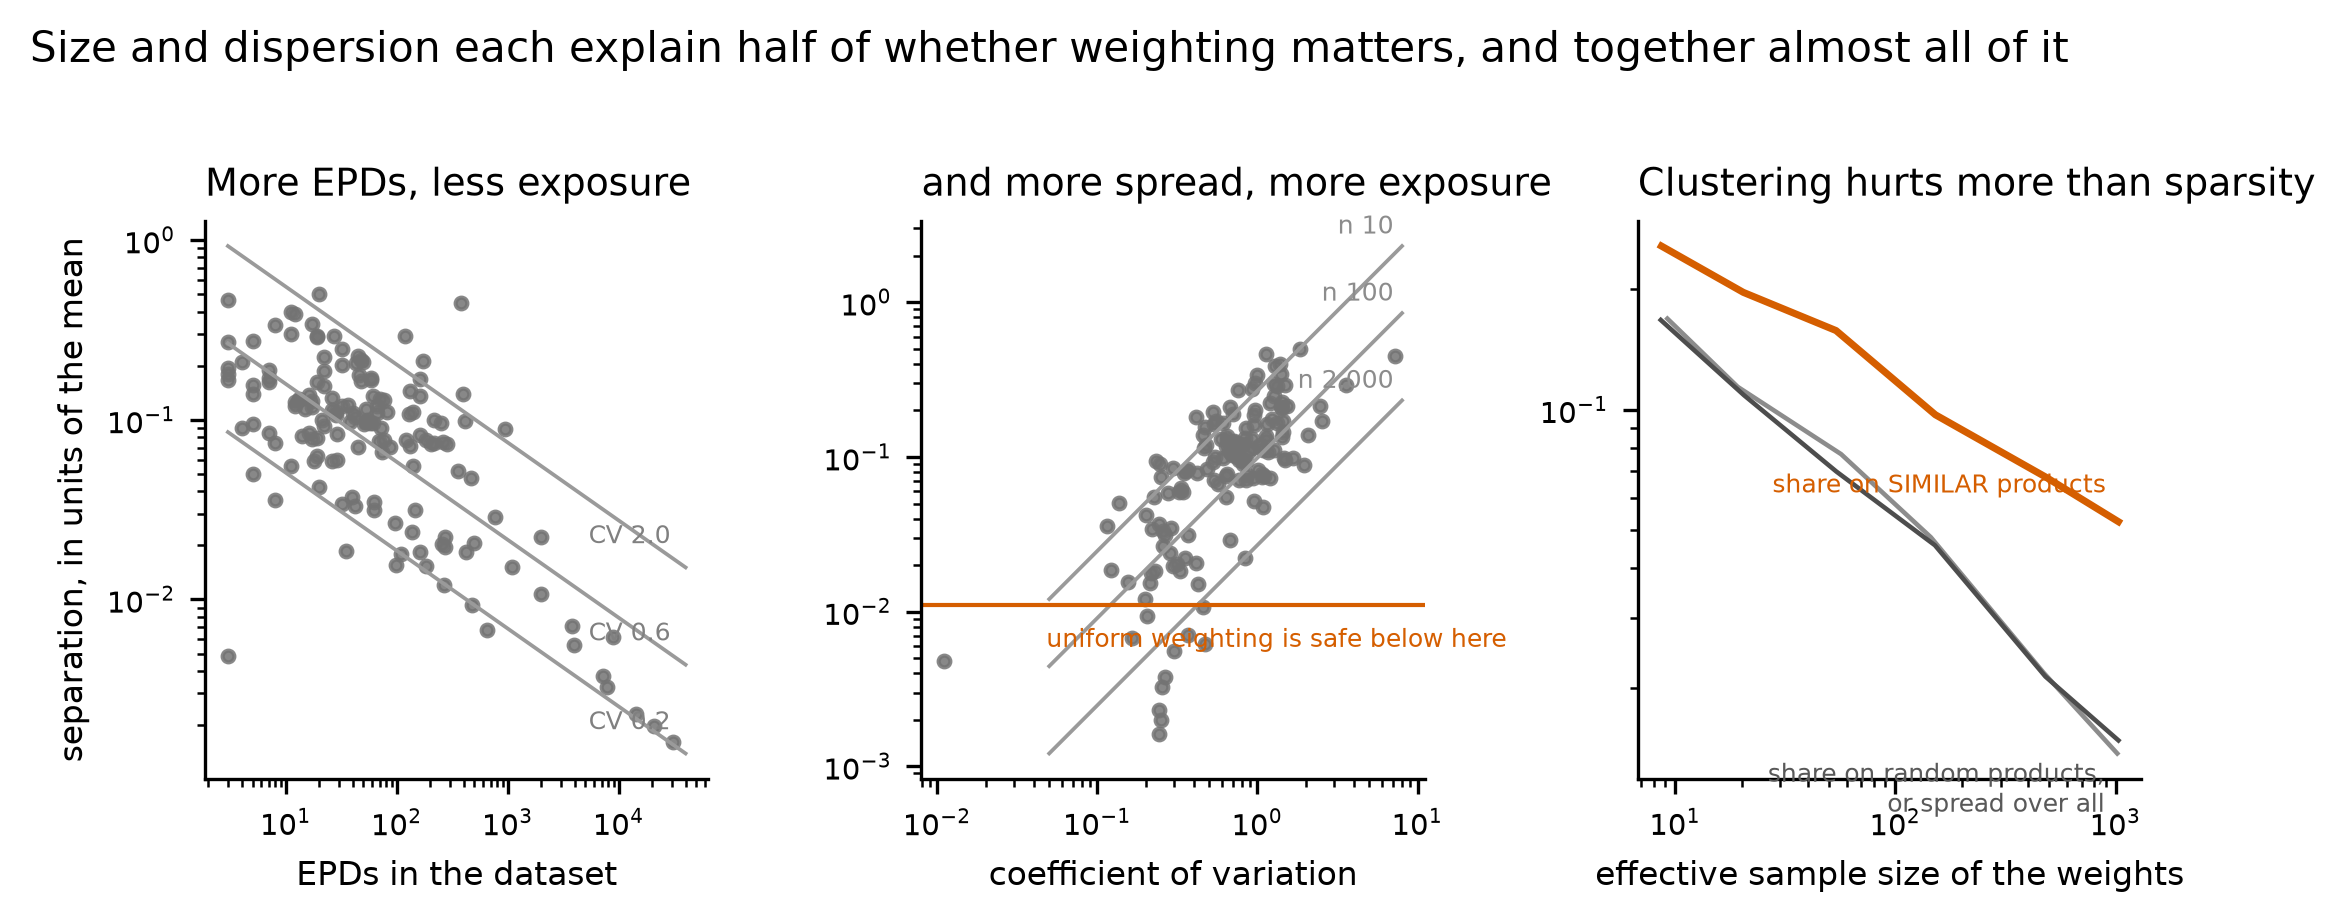
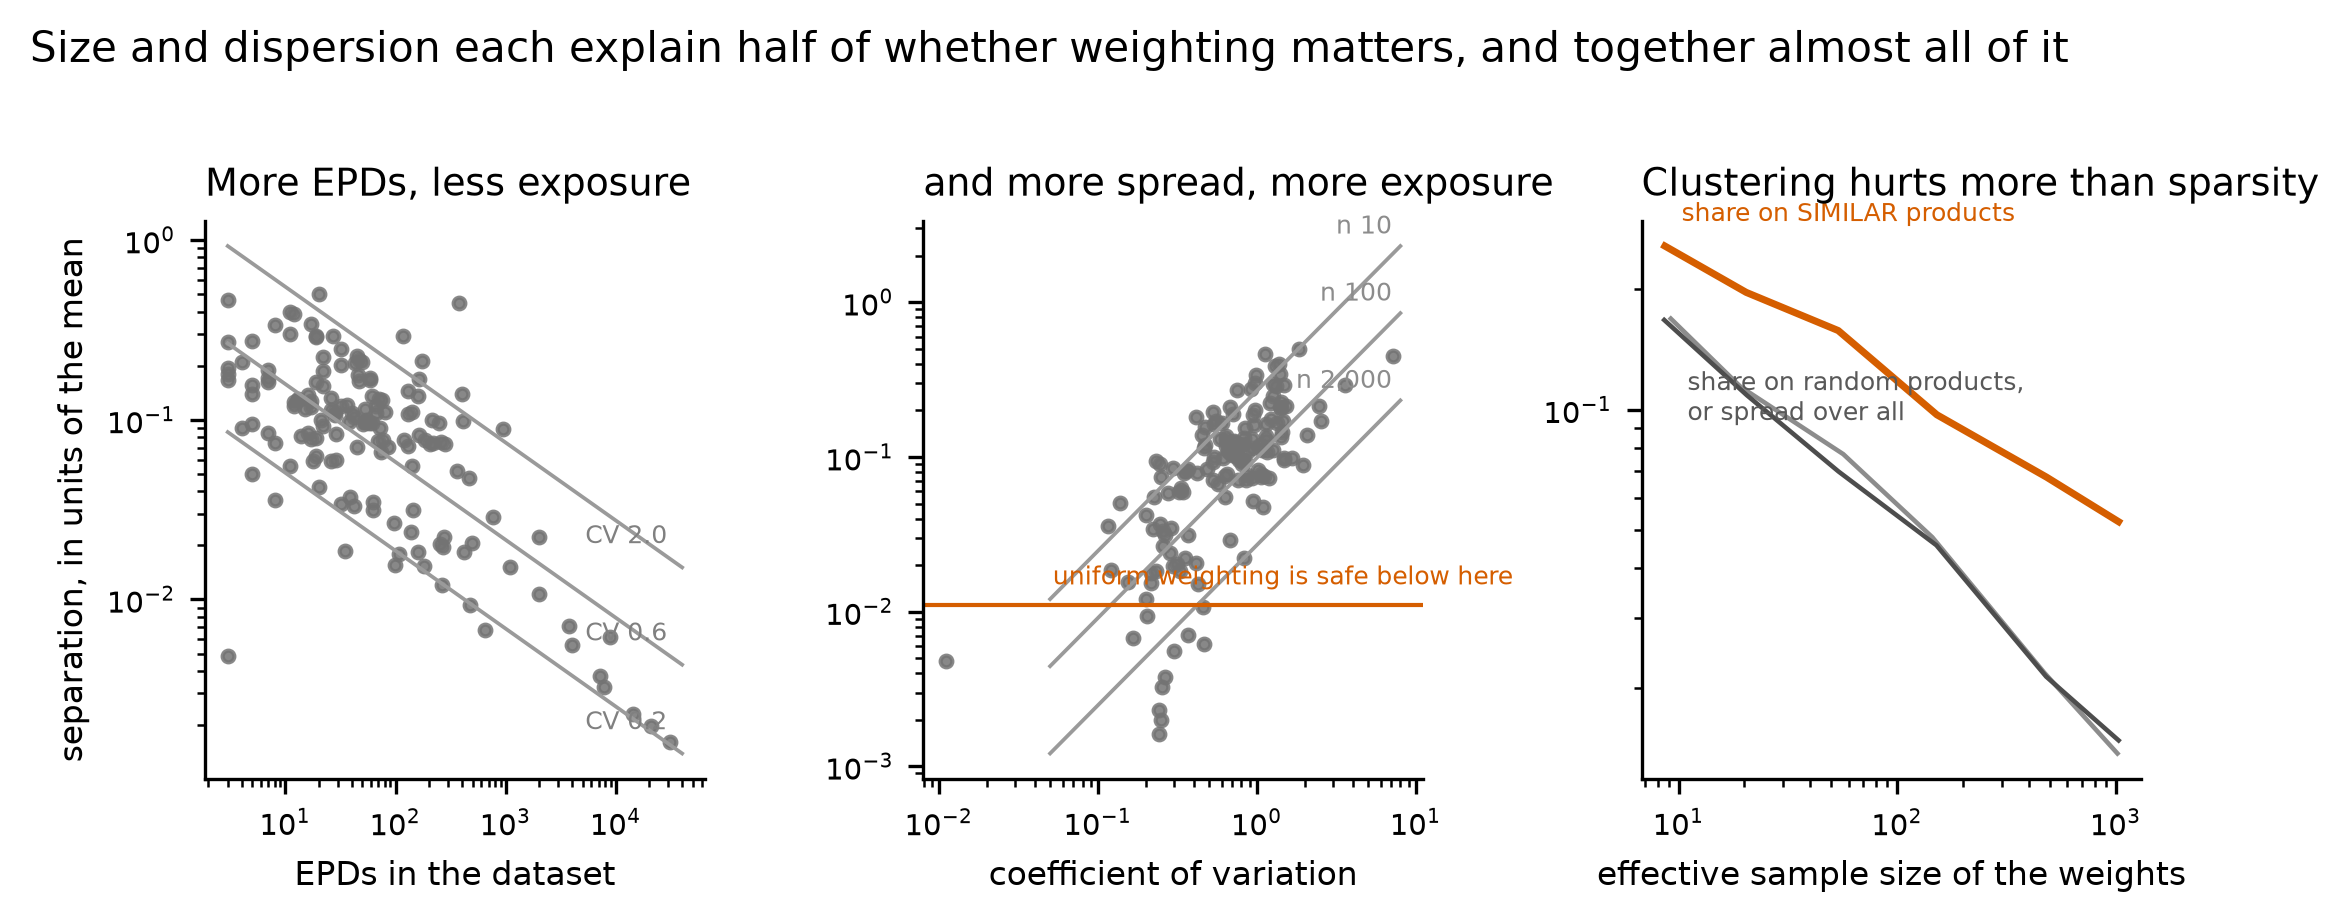
Fix the last two label collisions, and verify the figure is notebook-produced
The drivers figure still had two: the threshold label sat on the scatter, and
the clustering labels ran into the x-axis at the right end of their lines. An
earlier attempt to fix the second silently failed to match the text it was
editing, which is why re-rendering and LOOKING is part of the loop and not an
optional step.

Both labels now sit at the left end of their series, where the panel is empty.

Verified that the committed figure is what the NOTEBOOK produces and not what a
convenience script produced: a full run writes a file that differs from the
script-rendered one on zero pixels above 8/255, with a maximum channel
difference of 1, which is PNG encoding rounding. Decision 56 requires outputs/
to come from the notebooks and this is the check that it does.

Nothing else moved. TABLE_EmpiricalECCMetrics.xlsx and
TABLE_WeightingClustering.csv.gz were reverted after confirming their contents
hash identically and only an embedded timestamp differed.

The handoff's review section now describes the rebuilt figures, including what
a logistic and an isotonic fit each assume, since the reader asked.

Full suite 379 passing.

diff --git a/reports/HANDOFF_stage-2d.md b/reports/HANDOFF_stage-2d.md
@@ -78,22 +78,34 @@ with what to check in each. **The handoff's real reader has no repository, so
 these links are useless to them; this whole section comes out when the stage
 closes.** Everything below section 0 stands on its own without them.
 
+**A note on what changed after your first pass.** All three figures were
+rebuilt to `FIGURE_STYLE.md`, which did not exist when you reviewed them:
+titles now carry the finding, annotations were moved out of the data, the
+saturated A_IQR panel was deleted, and the calibration figure shows the whole
+distribution of method-to-method distances rather than one summary marker.
+
 ### 1. The deliverable: what a given W1 costs
 
 ![flip calibration](../outputs/figures/CompareUQMethods_FIG_FlipCalibration.png)
 
-What to check. The grey points are the observed flip rate in equal-count bins,
-the red line is the logistic fit and the blue step is the isotonic fit, which
-assumes only that the probability does not fall as two models separate. They
-should agree through the body; where they part, at the very bottom left, the data
-is thinnest. **The green star is where the six UQ methods of this study actually
-sit** -- a median separation of 0.30 and a 56 percent flip rate -- which is the
-point of the figure: every method pair is far past every threshold marked.
+What to check. The dark points are the observed flip rate in equal-count bins
+and the grey curve is a **logistic regression**: it models a yes/no outcome as a
+probability rising smoothly from zero to one with the logarithm of the distance,
+and the three crossings are read off it. An **isotonic fit** would impose no
+shape at all, assuming only that the probability never FALLS as two models
+separate; it gives 0.0026, 0.0129 and 0.0271 for the same three levels, which is
+close enough that the shape is not doing the work. It is in
+`TABLE_FlipCrossings.csv` and is no longer drawn, because a second curve saying
+the same thing is the clutter the style guide forbids.
 
-The right panel is shown to be dismissed. The full rank ordering of four
-near-exchangeable materials is so fragile that its crossings land at 2.1e-05, and
-its Monte Carlo noise floor alone is 34 percent. It is not a usable criterion and
-the paper should say so rather than report it.
+**The orange rug along the top is every pair of the six UQ methods**, at your
+request: the star alone binned away how common each distance is. The bar beneath
+it is the median and the 5th to 95th percentile. The point of the figure is that
+the entire distribution sits far to the right of every marked threshold.
+
+The full-ordering panel has been deleted. Its Monte Carlo noise floor alone is
+34 percent, so it is not a usable criterion, and a panel with no message is a
+panel the style guide removes.
 
 ### 2. A_IQR against what it was supposed to measure
 
@@ -104,9 +116,10 @@ and the two arms lie on top of one another. Middle panel: the same A_IQR against
 dispersion is a formless cloud. **That contrast is the whole finding** -- A_IQR
 is a measure of how many EPDs a category has.
 
-Right panel is the honest caveat about itself: the risk is saturated near 1.0 for
-most categories, which is why the marginal rank correlation on it should not be
-quoted. Figure 3 is the version that is not saturated.
+The third panel that was here has been deleted. You were right that it carried no
+takeaway: the risk saturates near 1.0 for three quarters of categories, so the
+panel showed a ceiling rather than a relationship. Figure 3 carries the
+unsaturated version of the same question.
 
 ### 3. What actually decides whether weighting matters
 
